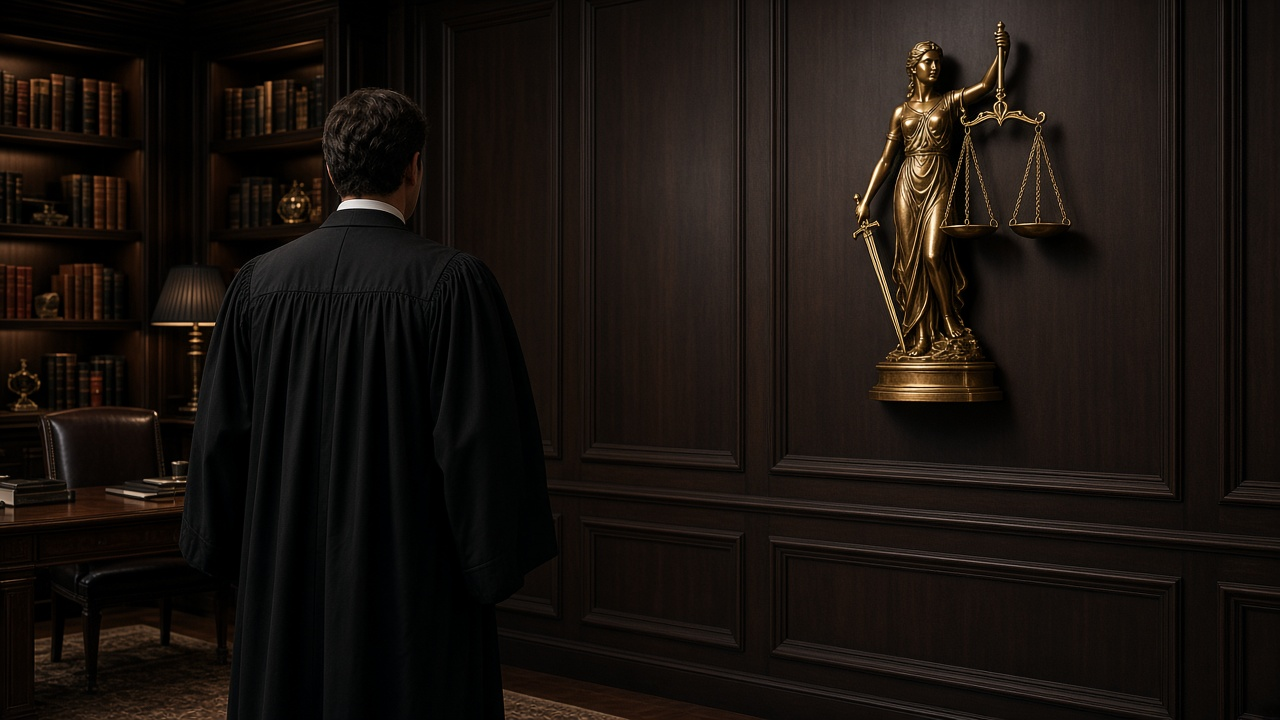
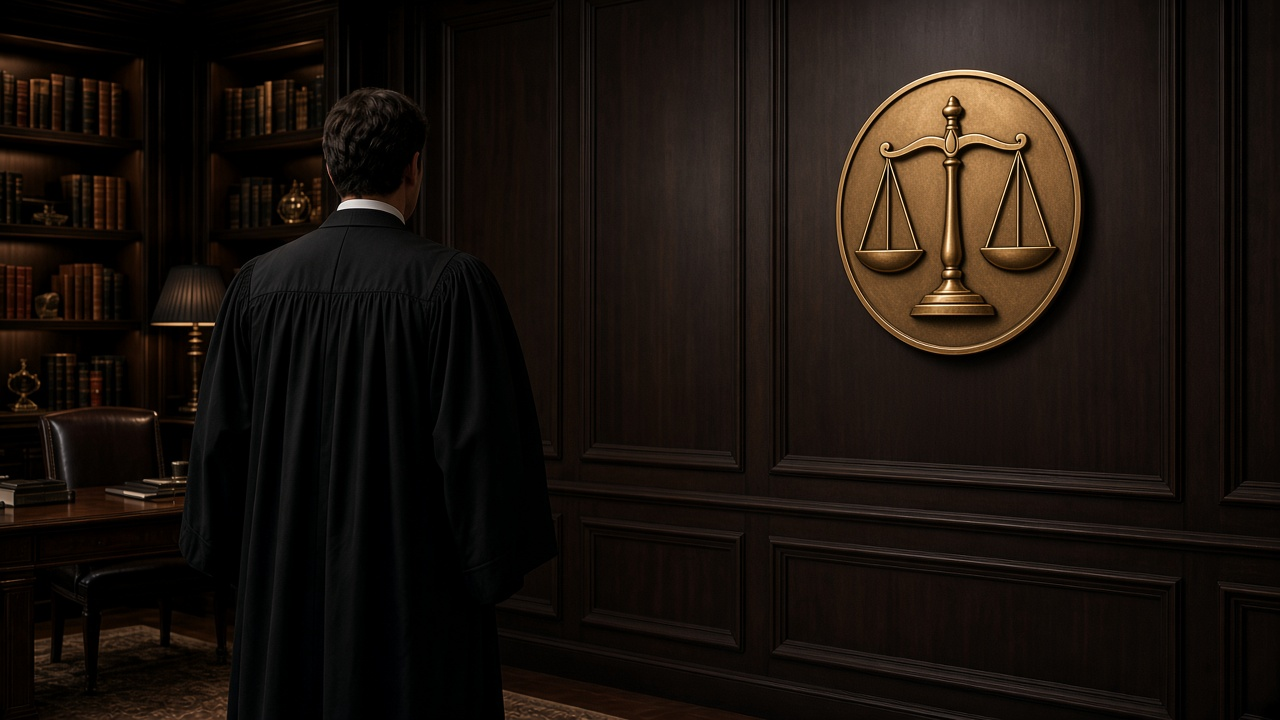
Office hero: scales of justice emblem without human statue
Replace Lady Justice figurine with a circular gold scales plaque;
keep lawyer from behind in gown for the office demo cover.

Changed region(s): [[0.625, 0.0306, 0.875, 0.5806], [0.4062, 0.9778, 0.4688, 1.0], [0.125, 0.9778, 0.1562, 1.0]]

diff --git a/rizq-assets/demo-heroes/README.md b/rizq-assets/demo-heroes/README.md
@@ -5,7 +5,7 @@ Local full-bleed hero backgrounds for public demo pages — first paint without 
 | File | Page | Subject |
 |------|------|---------|
 | `store-boutique-promo.jpg` | `rizq_store.html` | Boutique retail (classic promotional shop floor) |
-| `office-lawyer-justice.jpg` | `rizq_office.html` | Lawyer from behind + justice scales emblem |
+| `office-lawyer-justice.jpg` | `rizq_office.html` | Lawyer from behind + scales of justice emblem (no human statue) |
 | `showroom-appliances-promo.jpg` | `rizq_showroom.html` | Large + small home appliances showroom |
 
 Legacy alternates kept: `office-law-interior.jpg`, `showroom-appliances.jpg`, `showroom-industrial.jpg`.
